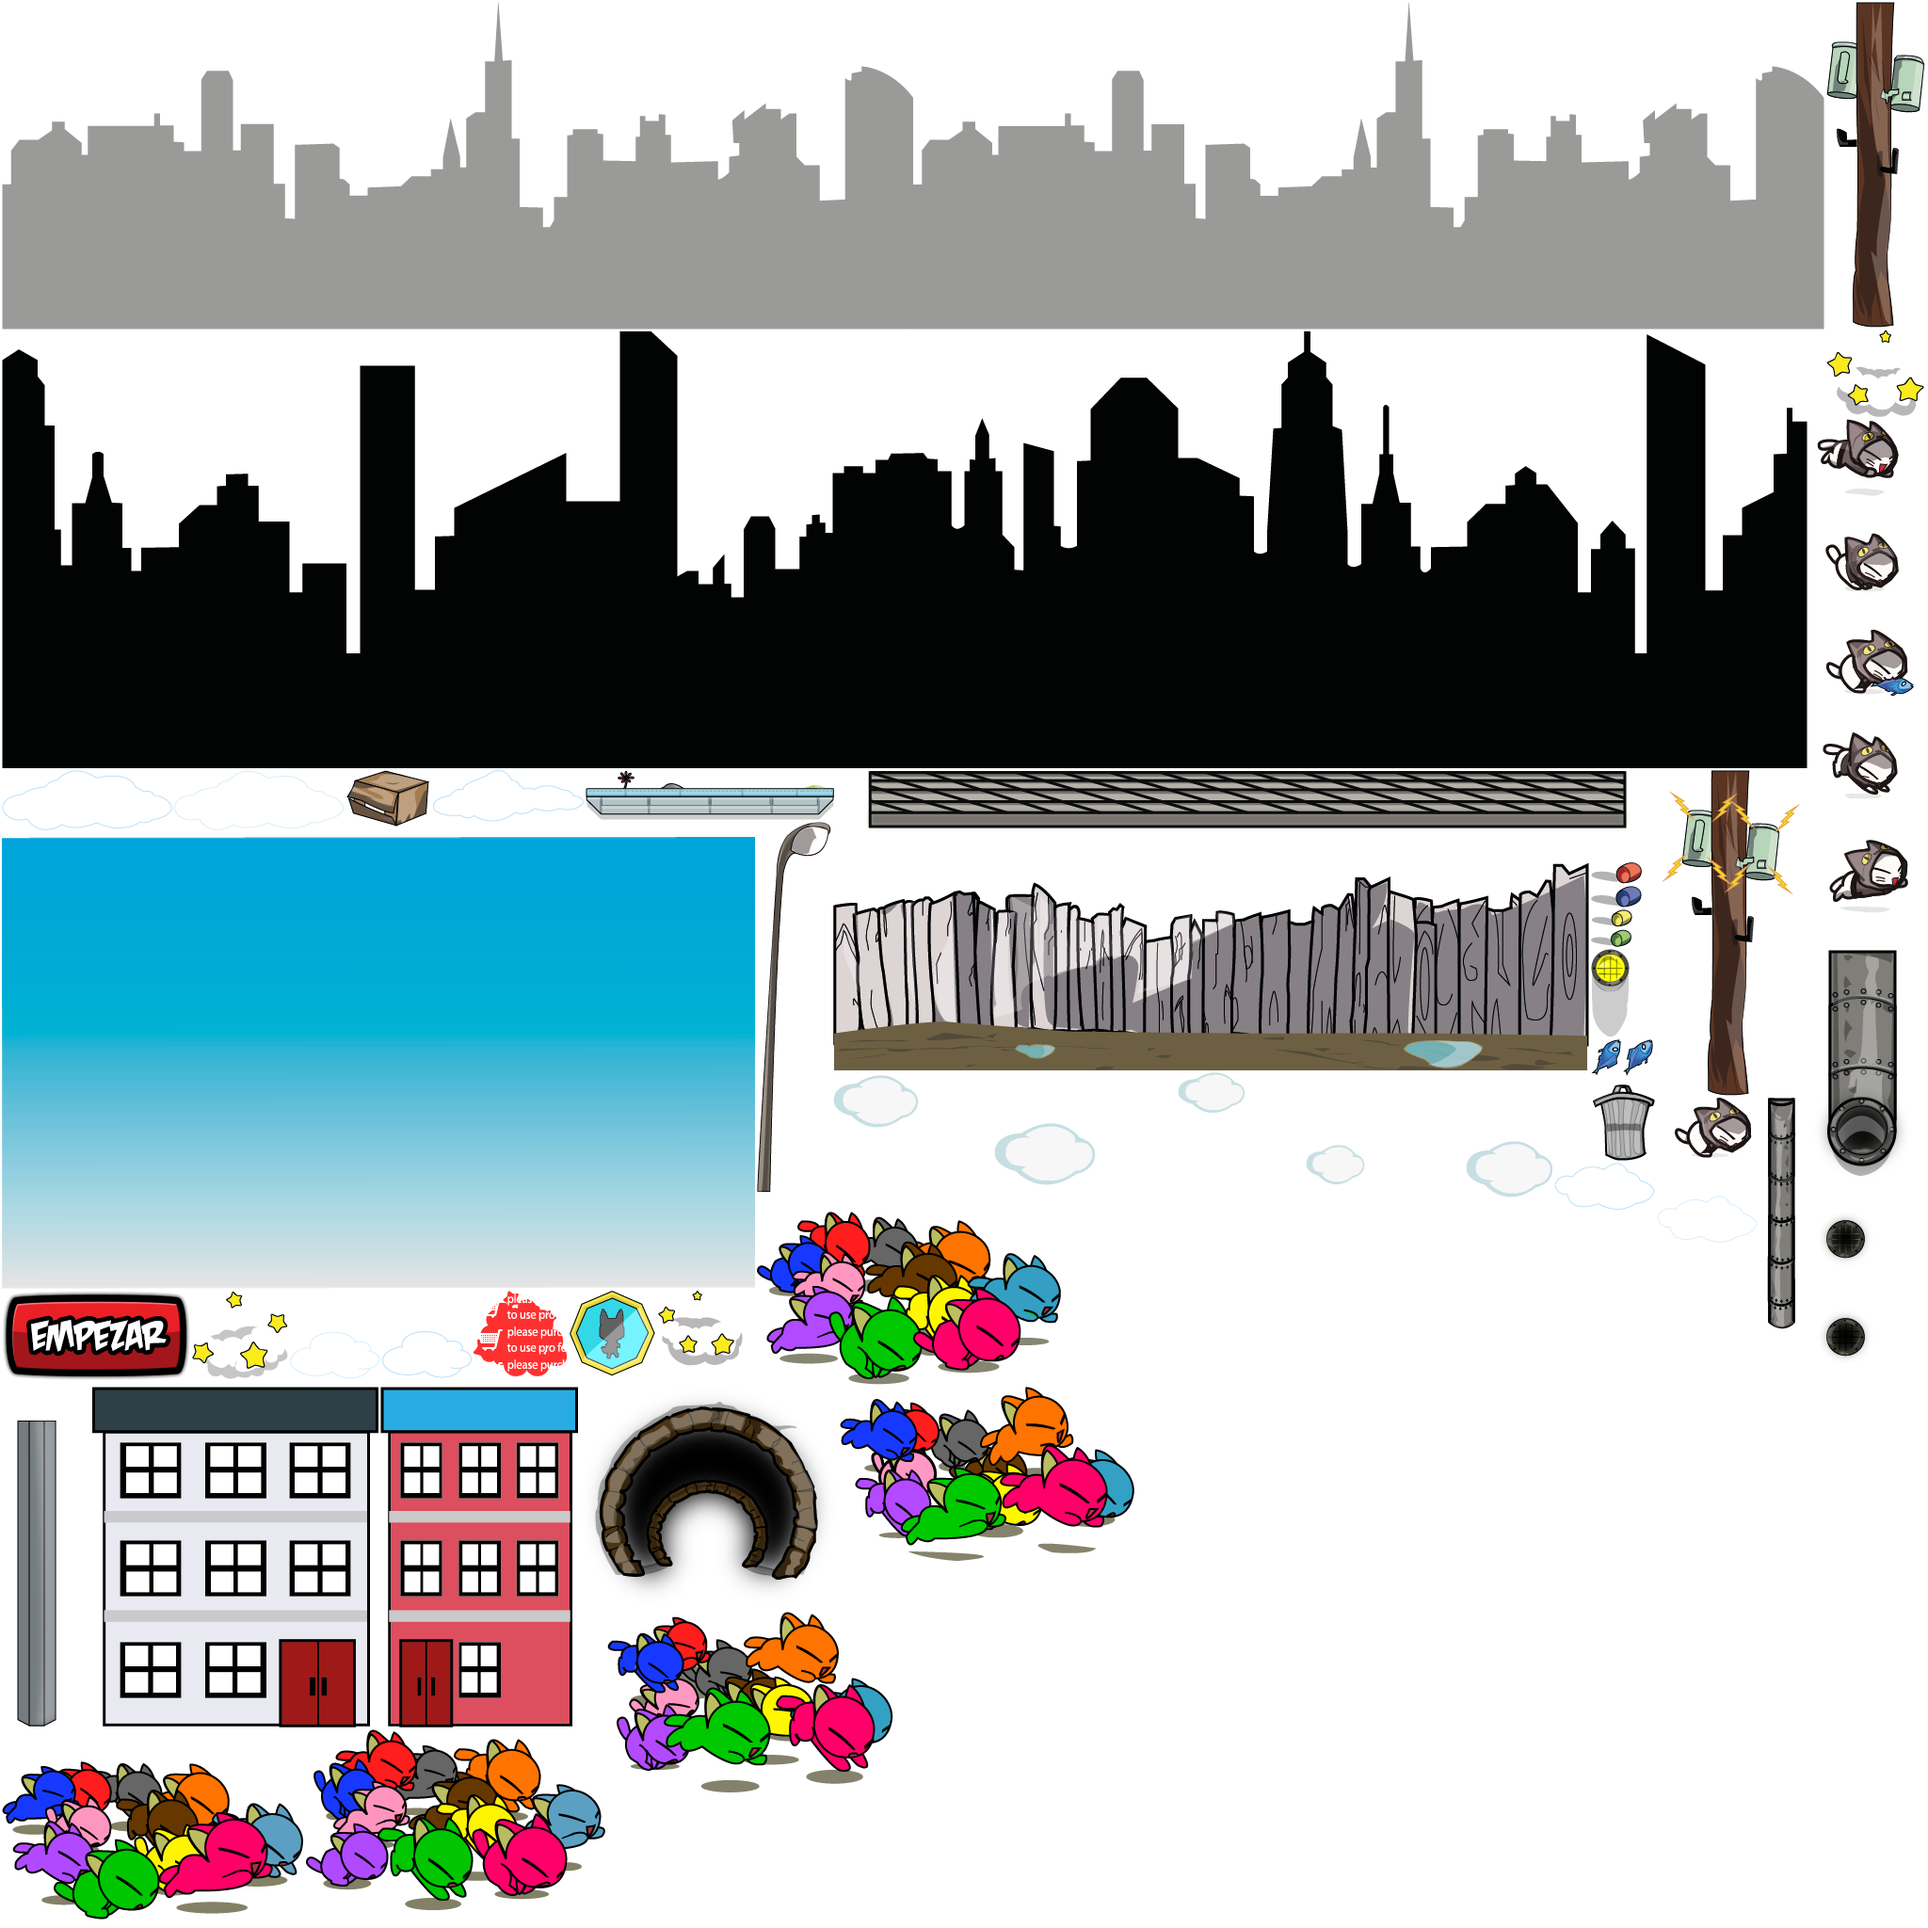
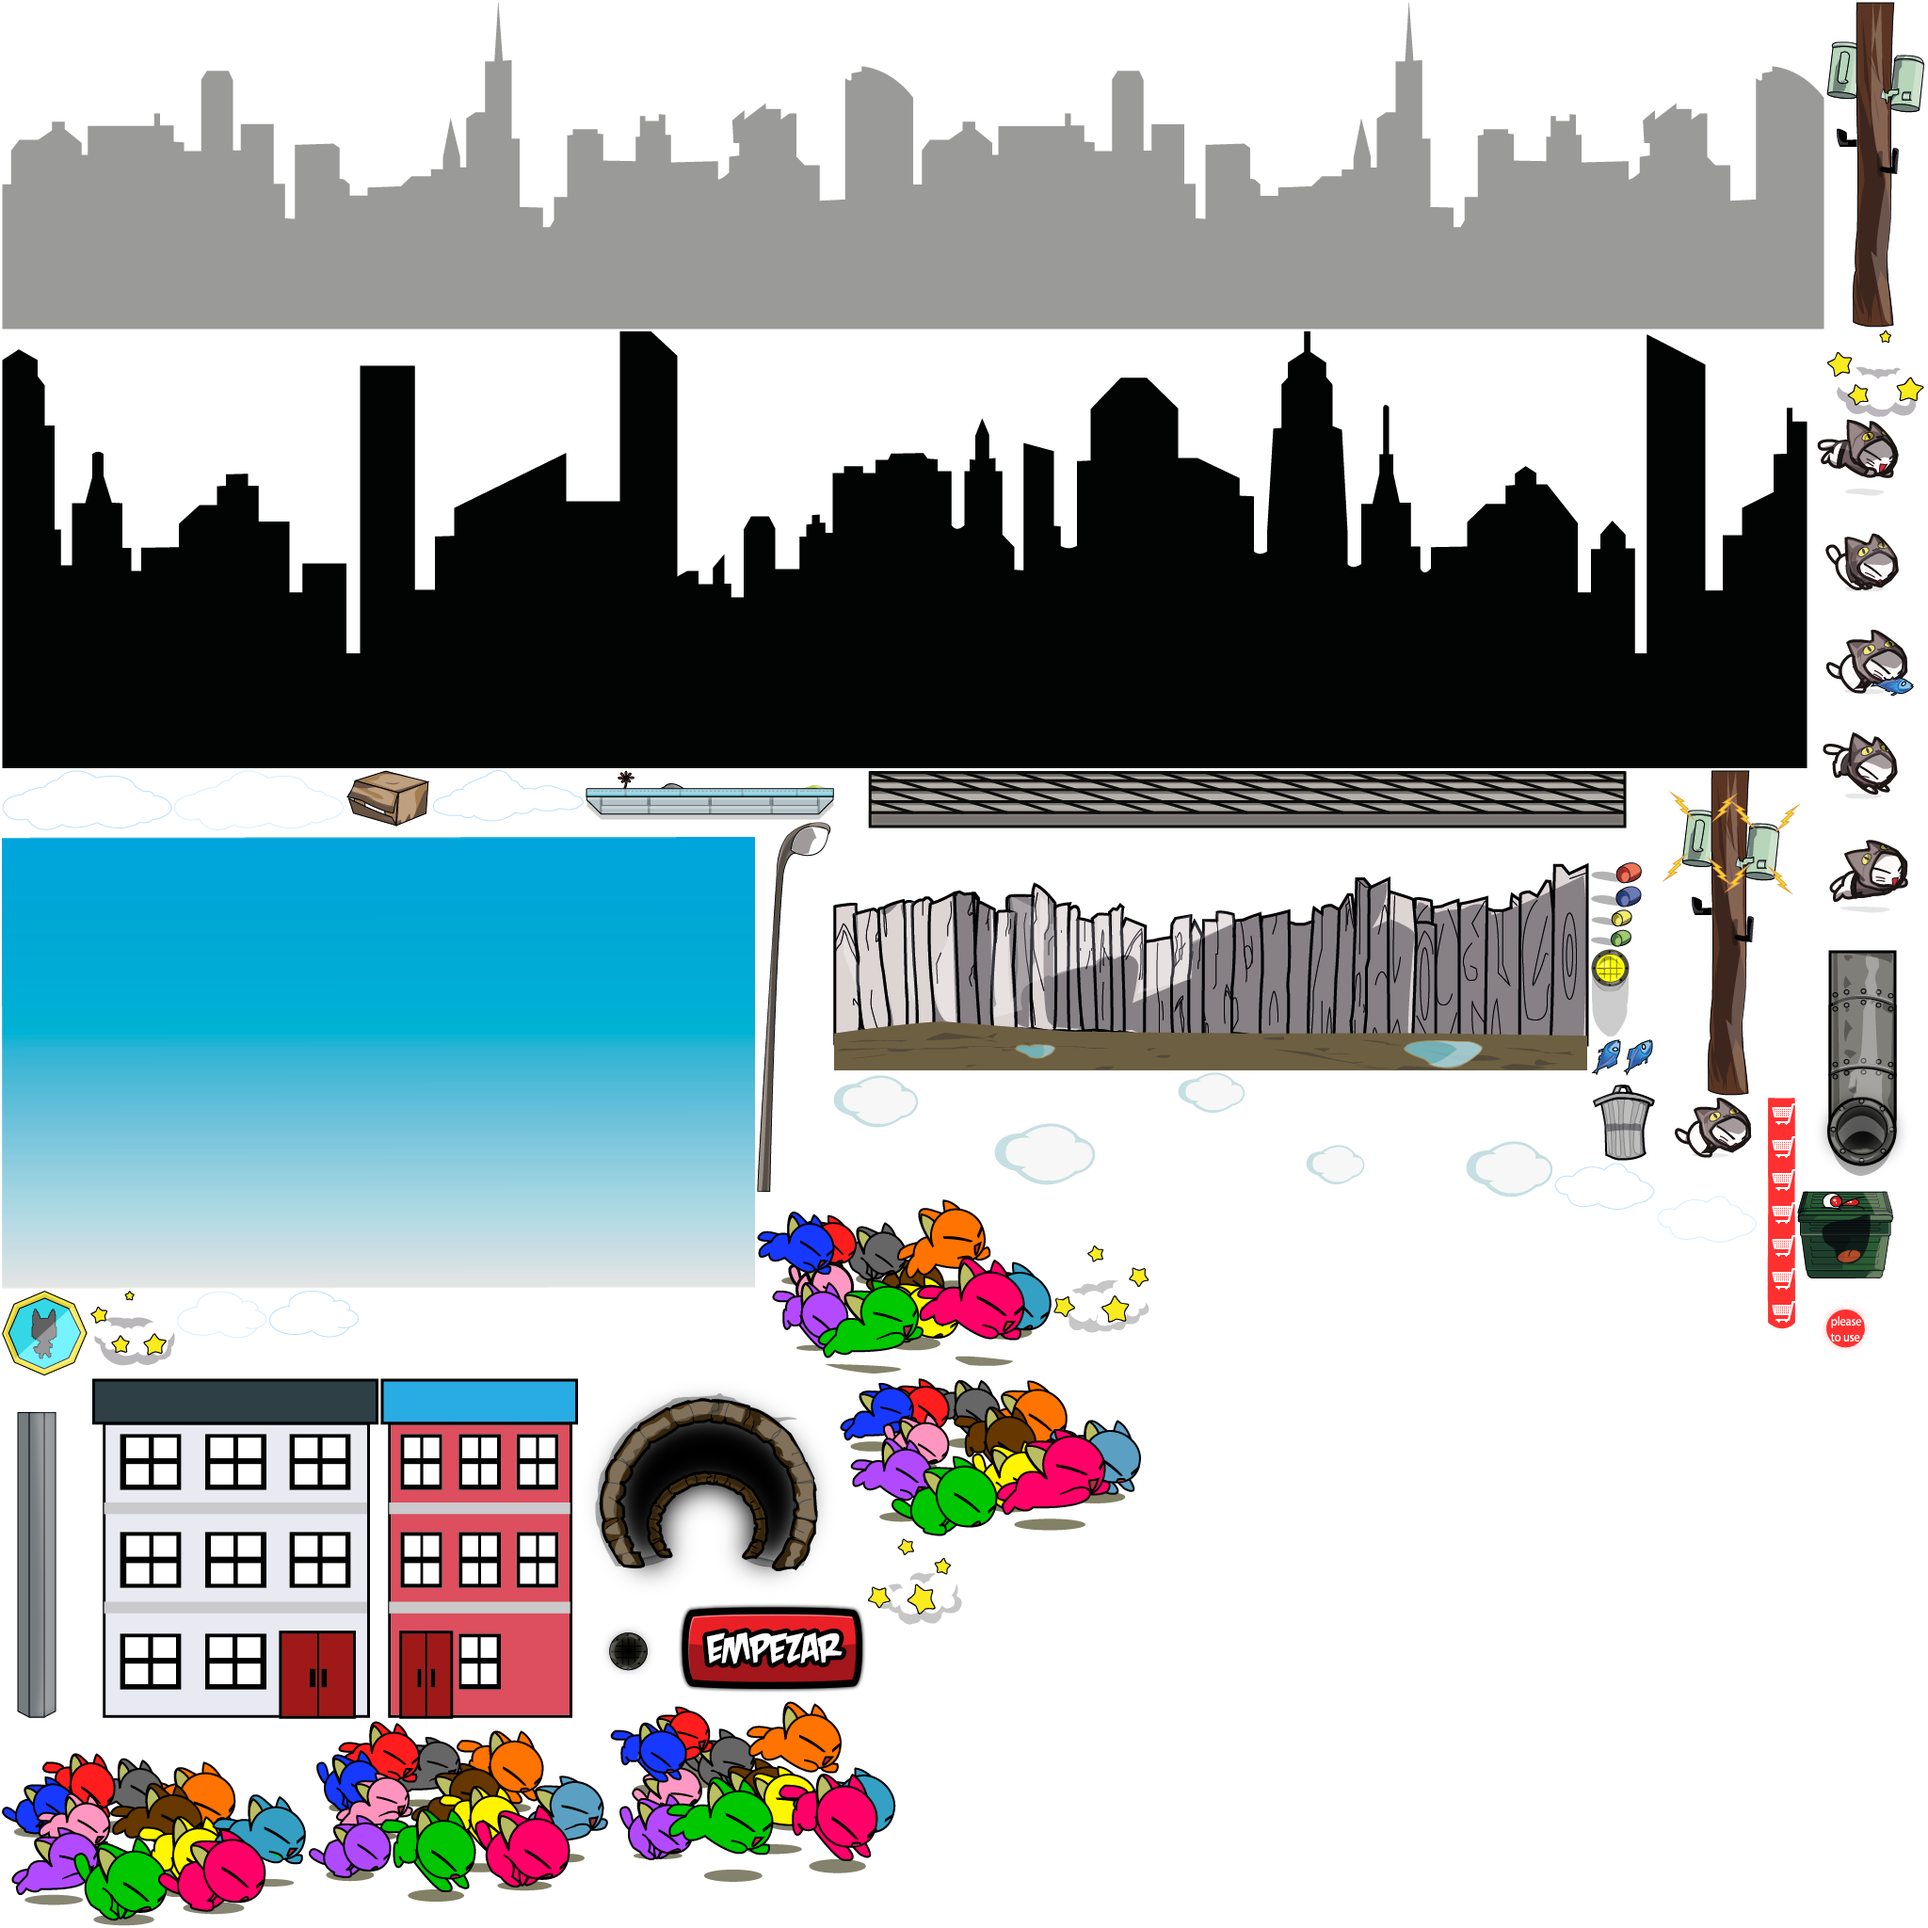
añadido contenedor al atlasmap

Changed region(s): [[0.0, 0.625, 0.5938, 1.0], [0.9062, 0.5625, 1.0, 0.7188]]

diff --git a/Shoppu/src/com/me/game/WorldGame.java b/Shoppu/src/com/me/game/WorldGame.java
@@ -104,7 +104,7 @@ public class WorldGame {
 		crearPandilla();
 		crearNubes();
 		agregarPlataformas(0, 15);
-<<<<<<< HEAD
+
 		/*
 		
 		crearMonedas();
@@ -122,10 +122,6 @@ public class WorldGame {
 		crearPoste();*/
 
 	}	
-=======
-	}
-	
->>>>>>> be3f496546855c6ac75e2cb4379992016c954f08
 	public int ponsincial ;
 	public int limite_i;
 	
